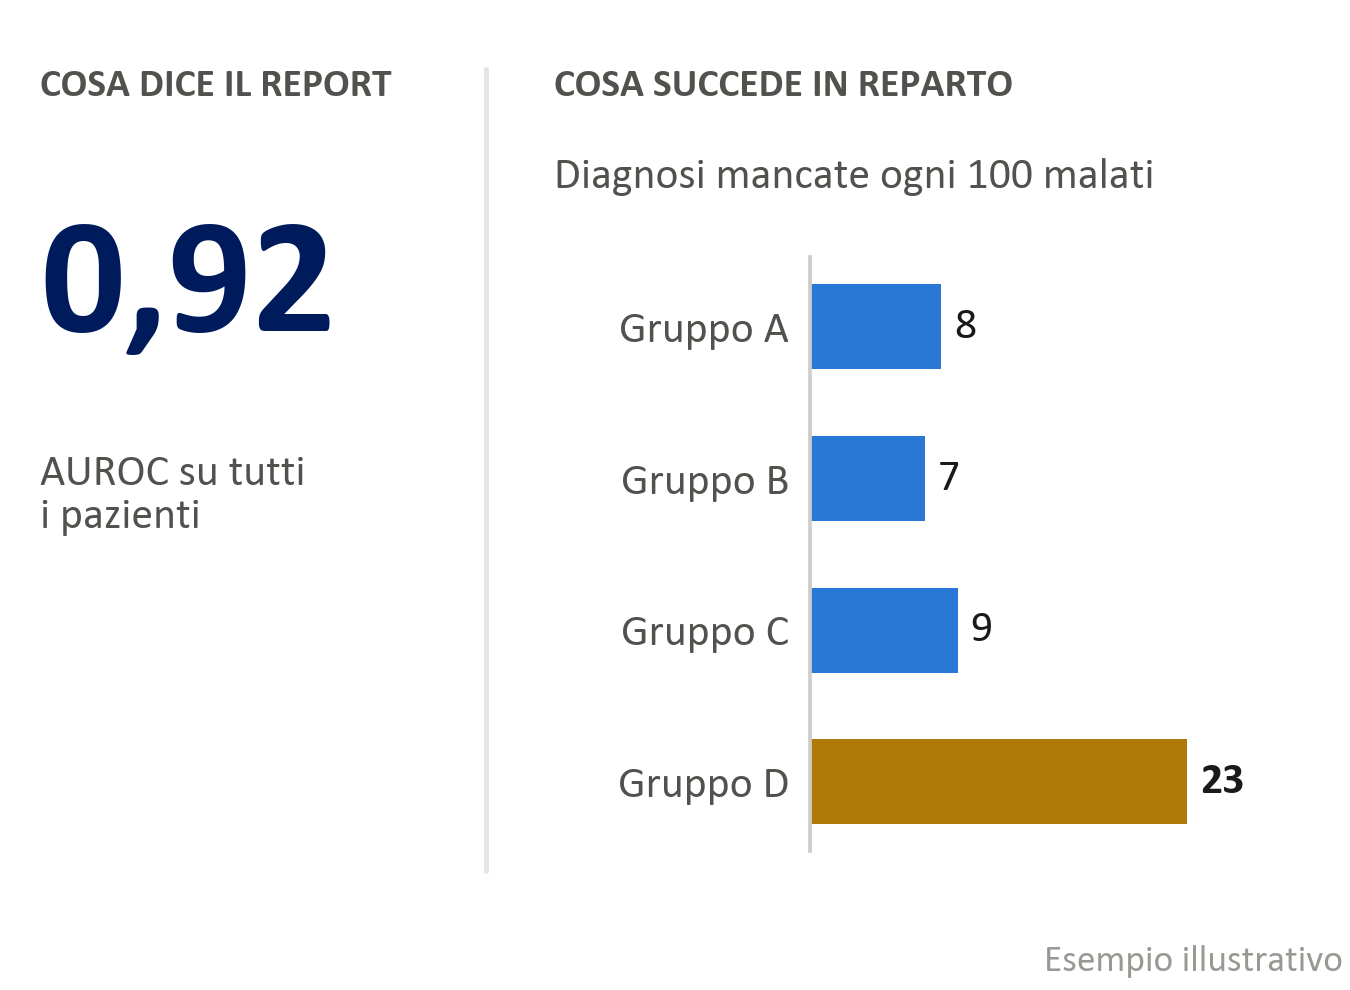
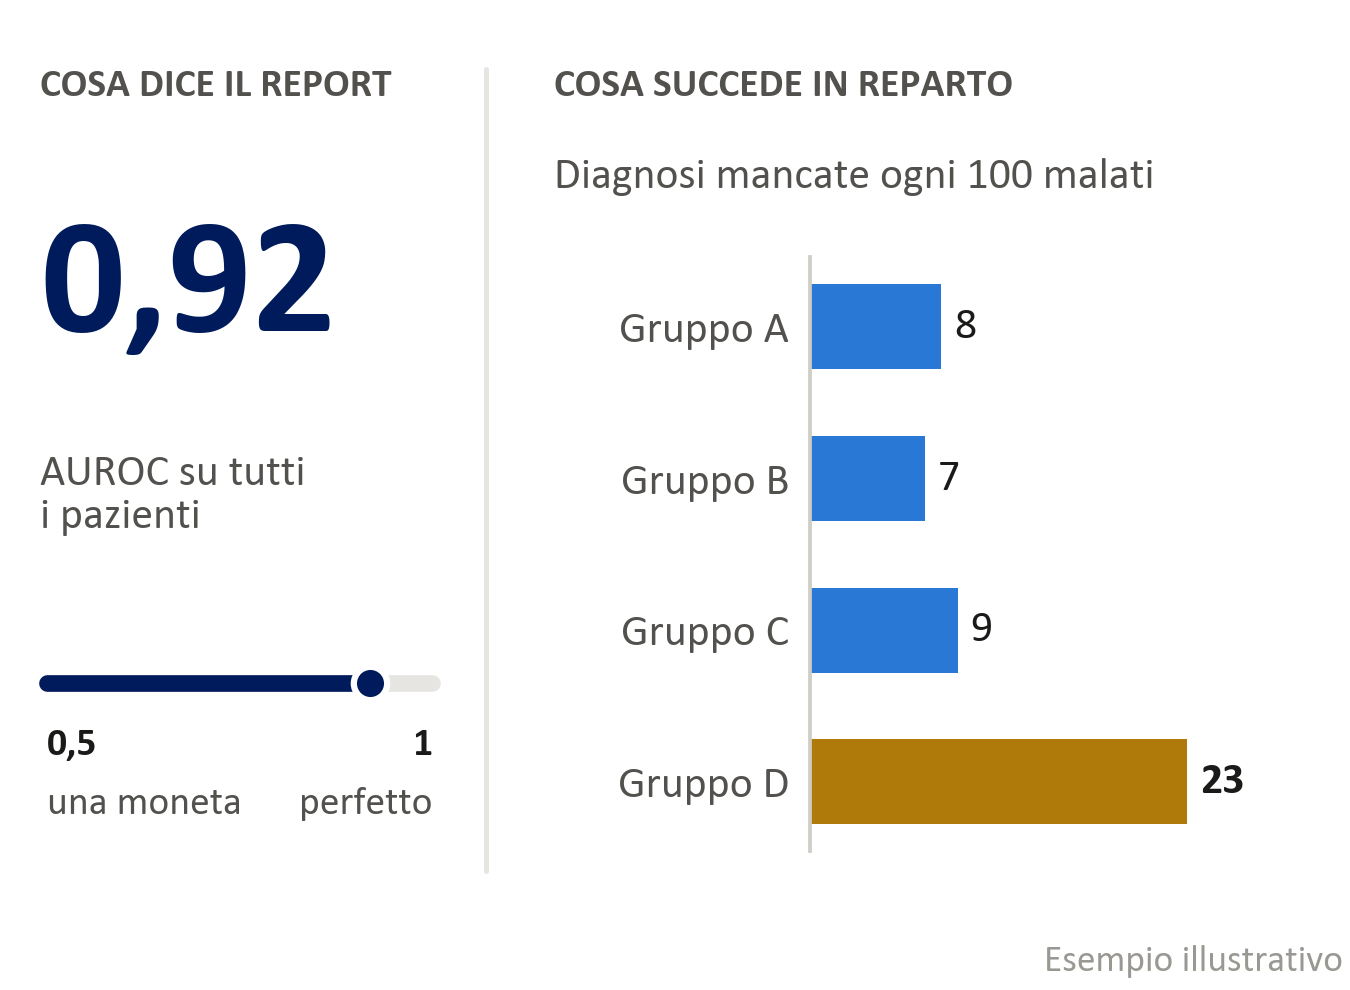
Scala dell'AUROC nell'immagine della slide 2
Sotto lo 0,92 compare la scala per leggerlo: 0,5 una moneta, 1 perfetto.

Changed region(s): [[0.0311, 0.6667, 0.3422, 0.7273], [0.0311, 0.7273, 0.1867, 0.8182], [0.2178, 0.7879, 0.3111, 0.8182]]

diff --git a/figure/genera_immagini_slide.py b/figure/genera_immagini_slide.py
@@ -81,6 +81,15 @@ def s02():
     fig.text(0.03, 0.93, "COSA DICE IL REPORT", fontsize=9.5, fontweight="bold", color=INK2, va="top")
     fig.text(0.03, 0.78, "0,92", fontsize=40, fontweight="bold", color=NAVY_SLIDE, va="top")
     fig.text(0.03, 0.54, "AUROC su tutti\ni pazienti", fontsize=10.5, color=INK2, va="top", linespacing=1.15)
+    # la scala per leggerlo: da 0,5 (una moneta) a 1 (perfetto)
+    x0, x1, ys = 0.035, 0.32, 0.31
+    xv = x0 + (0.92 - 0.5) / 0.5 * (x1 - x0)
+    fig.add_artist(plt.Line2D([x0, x1], [ys, ys], color=GRIGIO_CH, lw=4, solid_capstyle="round"))
+    fig.add_artist(plt.Line2D([x0, xv], [ys, ys], color=NAVY_SLIDE, lw=4, solid_capstyle="round"))
+    fig.add_artist(plt.Line2D([xv], [ys], marker="o", ms=8, color=NAVY_SLIDE, mec="white", mew=1.5))
+    for x, num, parola, ha in ((x0, "0,5", "una moneta", "left"), (x1, "1", "perfetto", "right")):
+        fig.text(x, ys - 0.045, num, ha=ha, va="top", fontsize=9.5, color=INK, fontweight="bold")
+        fig.text(x, ys - 0.105, parola, ha=ha, va="top", fontsize=9.5, color=INK2)
     fig.add_artist(plt.Line2D([0.36, 0.36], [0.12, 0.93], color=GRIGIO_CH, lw=1.2))
     fig.text(0.41, 0.93, "COSA SUCCEDE IN REPARTO", fontsize=9.5, fontweight="bold", color=INK2, va="top")
     fig.text(0.41, 0.84, "Diagnosi mancate ogni 100 malati", fontsize=10.5, color=INK2, va="top")
